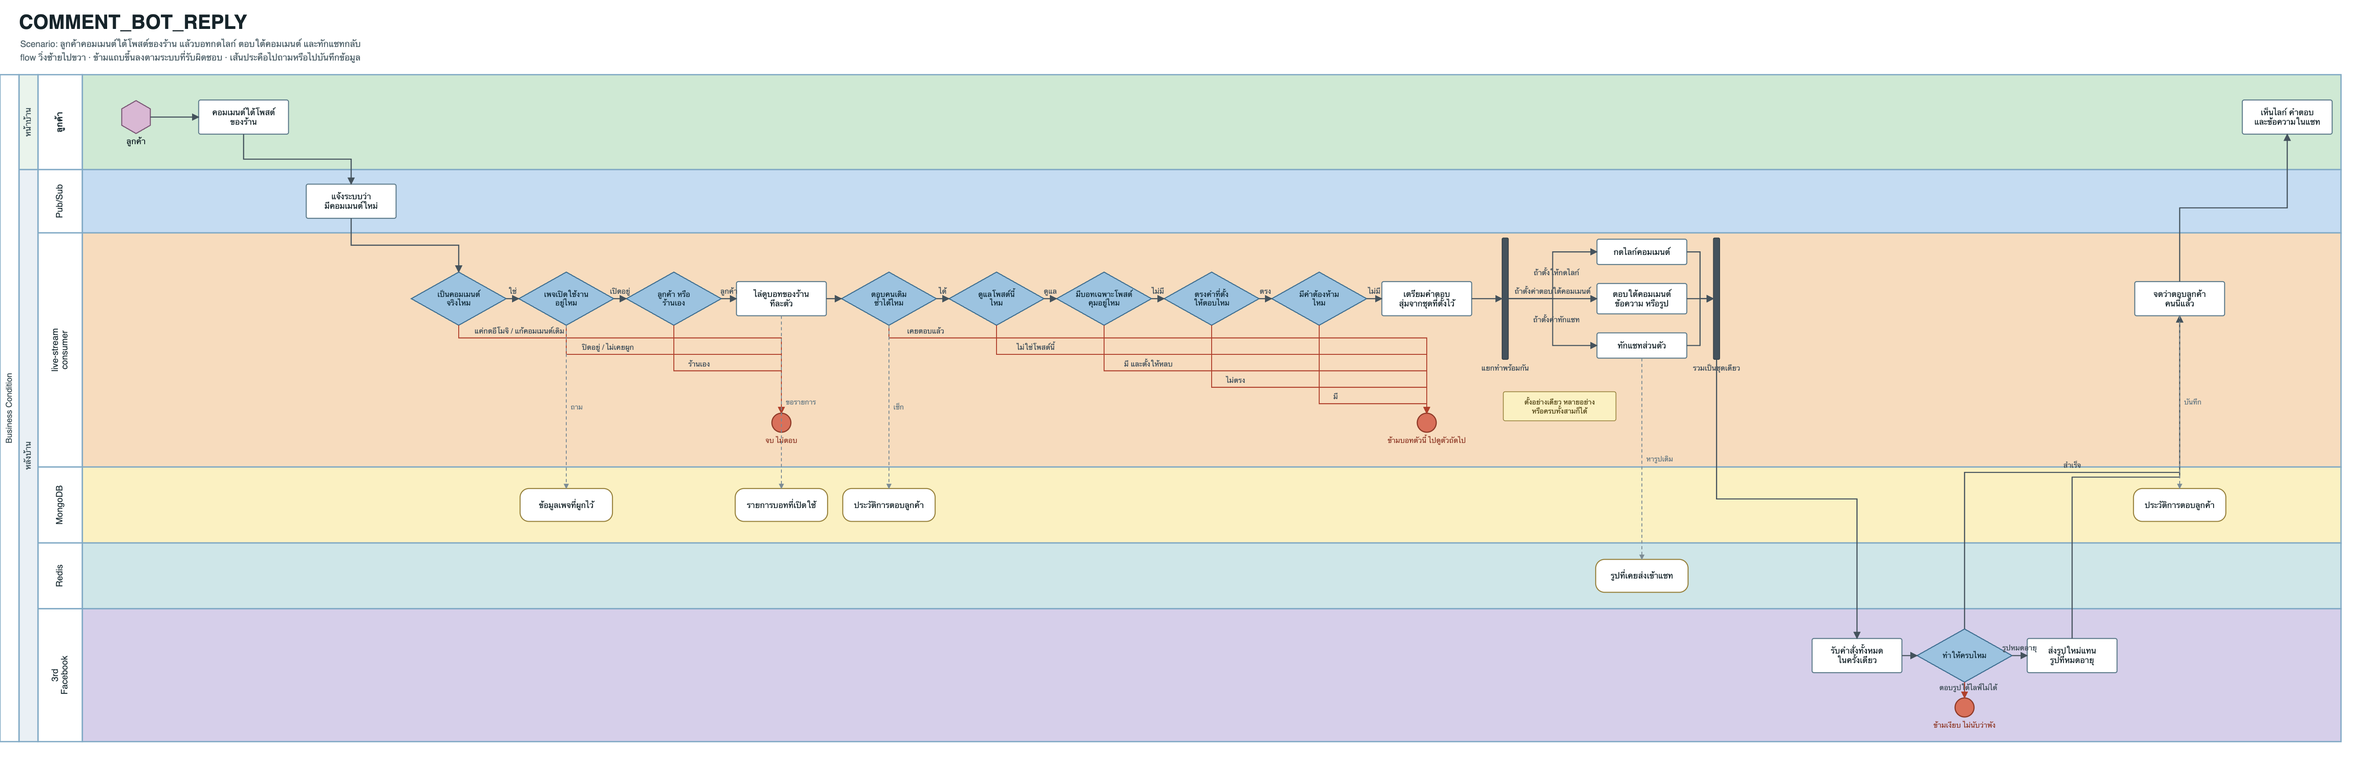
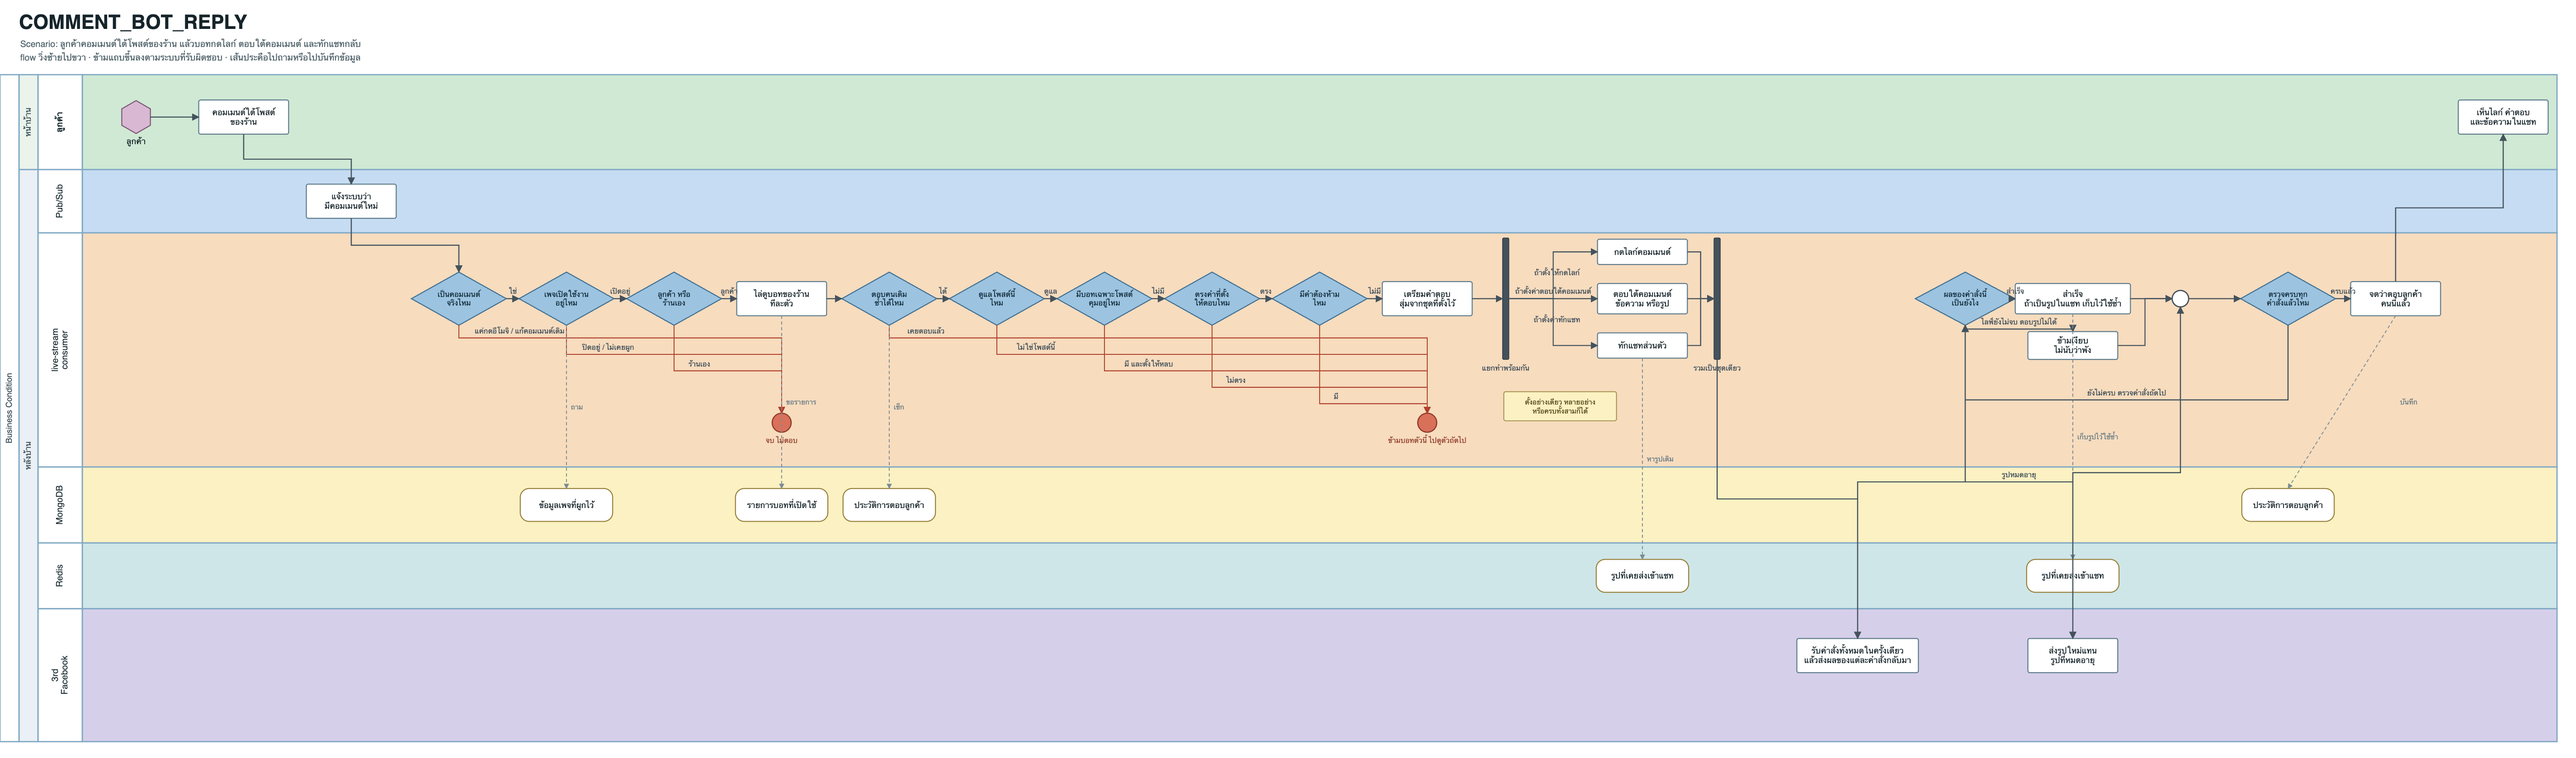
fix: วาดการไล่ตรวจผลจาก Facebook เป็นลูปจริง และย้ายมาอยู่เลนของระบบเรา
handleBatchResponse วน for อ่านผลทีละคำสั่งในชุด แต่เดิมวาดเป็น
ทำให้ครบไหม เช็คทีเดียวจบ และวางไว้ในเลน Facebook ซึ่งผิดทั้งคู่
Facebook แค่ส่งผลกลับมาเป็นรายการ คนไล่ตรวจคือ live-stream-consumer

เปลี่ยนเป็น ผลของคำสั่งนี้เป็นยังไง แตกสามทาง -> จุดรวมทาง ->
ตรวจครบทุกคำสั่งแล้วไหม -> ยังไม่ครบวนกลับ / ครบแล้วออกไปจด

Claude-Session: https://claude.ai/code/session_019dmnkF1VAmt5kLAViUNPGP

diff --git a/docs/examples/issue-47-swimlane/README.md b/docs/examples/issue-47-swimlane/README.md
@@ -21,6 +21,9 @@
 - **แถบหนา = แยกทำพร้อมกัน (fork) / รวมกลับ (join)** — ต้องมี ไม่งั้นจะเผลอใช้ข้าวหลามตัดกับงานที่ทำพร้อมกันได้
   ตัวอย่างในรูป: บอทกดไลก์ ตอบใต้คอมเมนต์ และทักแชท **ทำครบทั้งสามในคราวเดียวได้** ไม่ใช่เลือกอย่างใดอย่างหนึ่ง
   เงื่อนไขว่าร้านตั้งอะไรไว้ แปะบนลูกศรแต่ละเส้นแทนการใส่ข้าวหลามตัด
+- **ลูปต้องวาดเป็นลูปจริง** — มีวงกลมขาวเป็นจุดรวมทาง แล้วข้าวหลามตัด "ตรวจครบทุกคำสั่งแล้วไหม" วนกลับไปต้นลูปก่อนจะออก
+  ตัวอย่างในรูป: ยิงคำสั่งไป Facebook เป็นชุดเดียว แต่ได้ผลกลับมาเป็นรายการ ระบบต้องไล่ตรวจทีละใบ
+  ตอนแรกวาดเป็น "ทำให้ครบไหม" เช็คทีเดียวจบ ซึ่งผิด — และวางไว้ผิดเลนด้วย (Facebook แค่ส่งผลกลับ คนไล่ตรวจคือระบบเรา)
 
 ## ส่วนที่ยังไม่ดีพอจะเป็นสกิล
 
